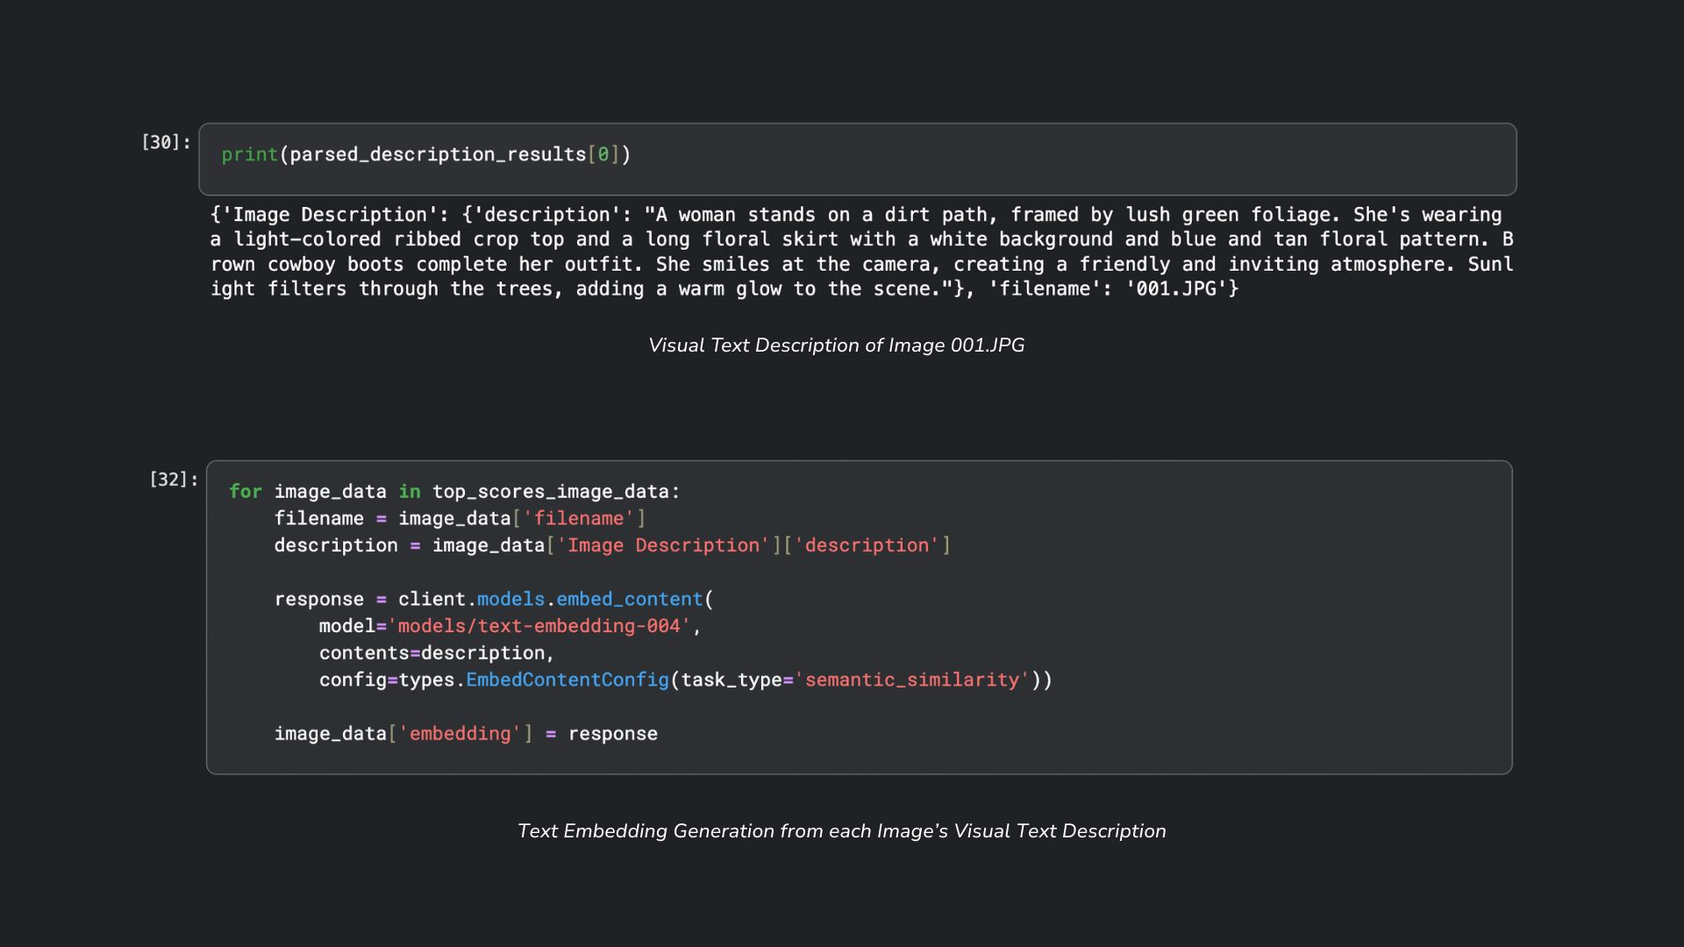
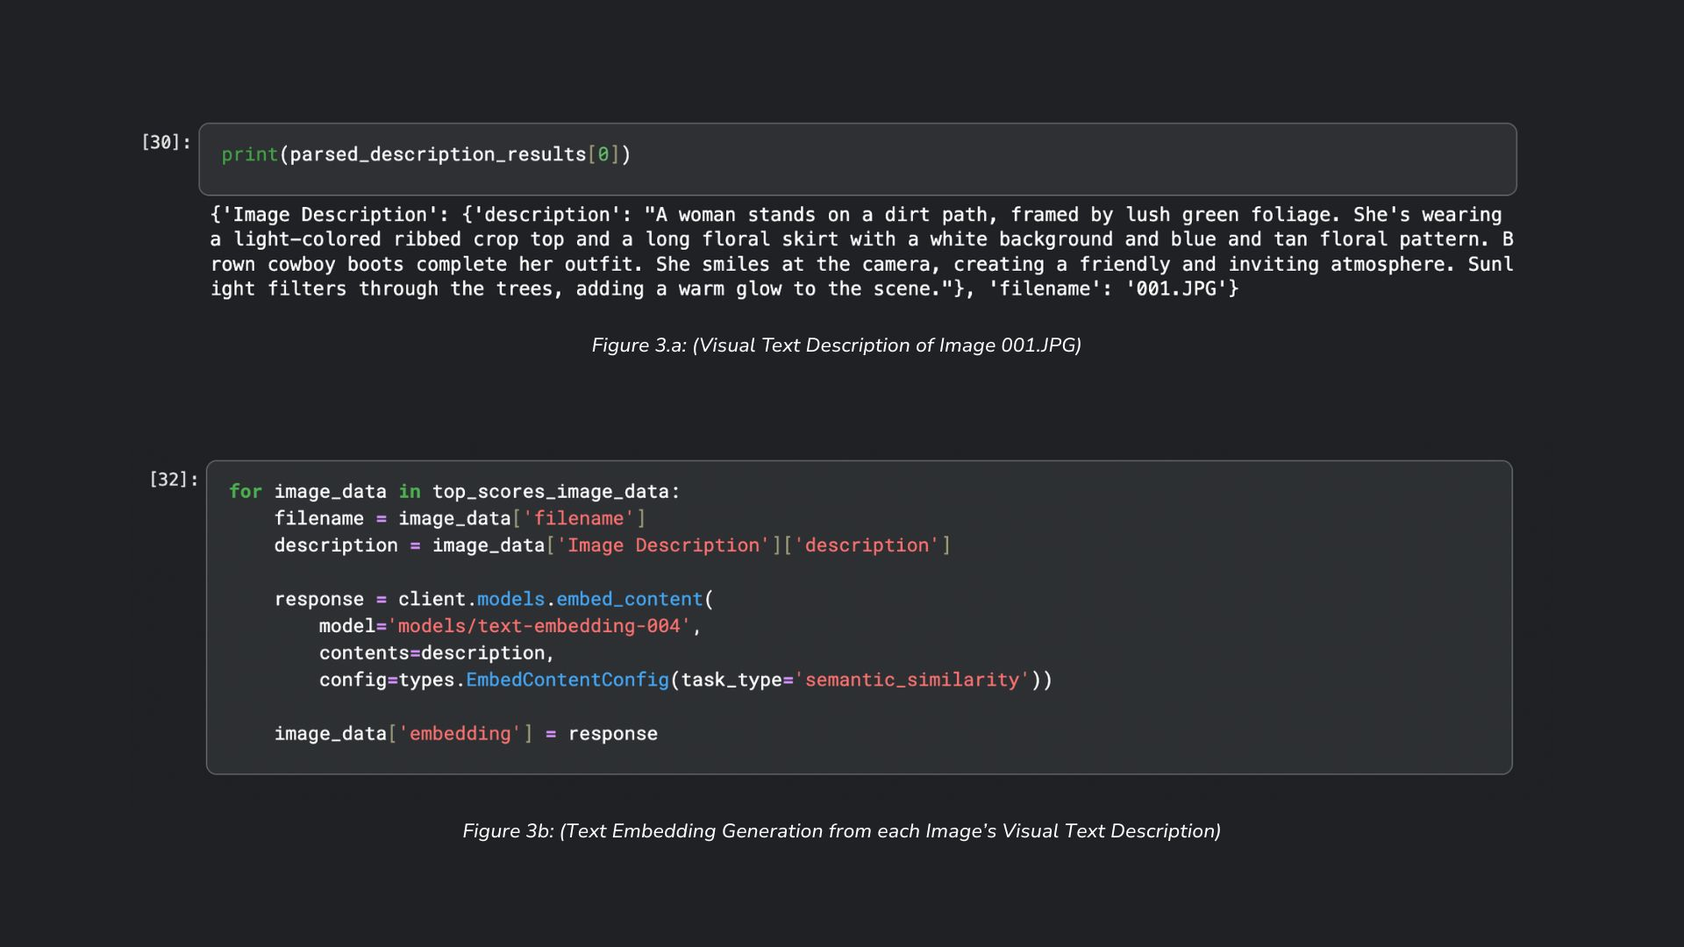
Update Google Capstone Project Page

Changed region(s): [[0.2812, 0.8556, 0.7188, 0.8861], [0.375, 0.3361, 0.625, 0.3972]]

diff --git a/google-gen-ai-capstone.html b/google-gen-ai-capstone.html
@@ -83,118 +83,151 @@
                         <div class="proj-page-card-component" style="margin: 20px 0px">
                             <div class="proj-page-image-component">
                                 <img src="assets/images/Google-Gen-AI-Capstone-Thumbnail.jpg">
-                                <p class="body-text proj-page-caption">Output Results of Gen AI Image Understanding.</p>
+                                <p class="body-text proj-page-caption">Output Results of Generative AI Image Culling Process.</p>
                             </div>
                             <div class="proj-page-text-component">
                                 <div style="margin-bottom: 20px">
                                     <p class="body-text" style="font-style: italic">
-                                        This project aims to automate and streamline the portrait culling process by leveraging Generative AI &mdash;more specifically, Gemini Flash 2.0. I will develop a 
-                                        system within a Kaggle Notebook that takes a collection of untouched portrait photographs as input and outputs a recommended
-                                        selection of the top K images based on predefined quality and uniqueness criteria, mimicking the initial decision-making
-                                        process of a professional portrait photographer.
+                                        This project aims to automate and streamline the Image Culling process of professional portrait photographers by leveraging Generative AI &mdash;more specifically, Gemini Flash 2.0.
+                                        I developed a system within a Kaggle Notebook that takes a collection of untouched portrait photographs as input and outputs a recommended selection of the top K unique (non-redundant) images
+                                        based on predefined quality criteria based on Lighting, Clarity, and the Subject.
                                     </p>
                                 </div>
                                 <div class="d-flex flex-column align-items-left" style="margin-bottom: 20px">
                                     <h5 class="subheading fw-bold" style="margin-bottom: 2px;">Tech Tools</h5>
                                     <div class="d-flex flex-wrap">
                                         <p class="tag-component"><span class="body-text tag-name">Python</span></p>
-                                        <p class="tag-component"><span class="body-text tag-name">Google Gemini Flash 2.0 API</span></p>
+                                        <p class="tag-component"><span class="body-text tag-name">Gemini Flash 2.0</span></p>
+                                        <p class="tag-component"><span class="body-text tag-name">NumPy</span></p>
+                                        <p class="tag-component"><span class="body-text tag-name">Pandas</span></p>
+                                        <p class="tag-component"><span class="body-text tag-name">JSON</span></p>
                                         <p class="tag-component"><span class="body-text tag-name">PIL</span></p>
                                         <p class="tag-component"><span class="body-text tag-name">Markdown</span></p>
+                                        <p class="tag-component"><span class="body-text tag-name">Scikit-learn</span></p>
                                     </div>
                                 </div>
                                 <div class="d-flex flex-column align-items-left" style="margin-bottom: 20px">
                                     <h5 class="subheading fw-bold" style="margin-bottom: 2px;">Prerequisites</h5>
                                     <ol class="body-text">
-                                        <li><a href="https://aistudio.google.com/app/apikey" target="_blank" class="links">Add Gemini API Key as 'GOOGLE_API_KEY' to Kaggle Secrets<a></li>
+                                        <li><a href="https://aistudio.google.com/app/apikey" target="_blank" class="links">Generate Gemini API Key and add as 'GOOGLE_API_KEY' to Kaggle Secrets<a></li>
                                         <li><a href="https://aistudio.google.com/app/apikey" target="_blank" class="links">Add Image Culling Dataset to Kaggle Datasets</a></li>
                                     </ol>
-                                </div>                              
+                                </div>
                                 <div style="margin-bottom: 20px">
-                                    <h5 class="subheading fw-bold">Proposed Solution</h5>
-                                    <p class="body-text">This project aims to automate and streamline the portrait culling process by leveraging Generative AI.
-                                        We will develop a system within a Kaggle Notebook that takes a collection of untouched portrait photographs as input and
-                                        outputs a recommended selection of the top images based on predefined quality and uniqueness criteria, mimicking the
-                                        initial decision-making process of a professional photographer.
+                                    <h5 class="subheading fw-bold">Problem Statement</h5>
+                                    <p class="body-text">Image Culling is the critical process of sifting through numerous raw photographs to select the most
+                                        promising images for post-production editing and refinement, presenting a significant bottleneck in a photographer's workflow.
+                                        During a photoshoot, hundreds and even thousands of images are produced. Going through these image sets demands a substantial investment 
+                                        of a photographer's time and focused energy. This manual process diverts valuable hours away from other important aspects of a photographer's
+                                        business which also includes shooting, editing, client communication, marketing, and much more. Generative AI plays a significant role in being able
+                                        to speed up this process, increase efficiency and productivity, improve accuracy in identifying high-quality images, and enhancing client satisfaction. 
                                     </p>
                                 </div>
                                 <div style="margin-bottom: 20px">
-                                    <h5 class="subheading fw-bold">Project Goals</h5>
-                                    <p class="body-text">The goal is to create a functional proof-of-concept that processes a batch of input images, uses Image
-                                        Understanding with Structured Output to score them based on quality metrics, generates Embeddings to assess similarity, and
-                                        applies a selection logic to identify a target number of high-scoring, visually distinct images. The final output will be a
-                                        list or collection of the selected image identifiers, ready for the photographer's final review and editing.
+                                    <h5 class="subheading fw-bold">Project Roadmap</h5>
+                                    <p class="body-text">This project will be executed through the following stages:
+                                        <ul class="body-text">
+                                            <li>Develop a proof of concept for an Image Culling System that processes a batch of portrait images</li>
+                                            <li>Employ Image Understanding with Structured output to score each image based on Lighting Balance, Clarity/Sharpness,
+                                                Pose Naturalness, Smile Genuineness, and Eye Openness</li>
+                                            <li>Further process the images that pass an overall quality threshold, based on an average score of each quality criteria</li>
+                                            <li>Generate visual text descriptions using Generative AI as input for Gemini's text embedding model (text-embedding-004)</li>
+                                            <li>Create a similarity matrix from the embeddings to greedily select the most unique images from the set of images that meets a quality threshold</li>
+                                        </ul>
+                                    </p>
+                                </div>
+                                <div style="margin-bottom: 20px">
+                                    <h5 class="subheading fw-bold">Multimodal Embeddings Constraint</h5>
+                                    <p class="body-text">I wanted to utilize multimodal embeddings for this project but found that Gemini did not provide a multimodal embedding model. This led me
+                                        to experiment with Google Cloud's Vertex AI's multimodal embedding model, however, I found it would be difficult for Vertex AI's capabilites to be "reasonably accessible to all"
+                                        via the Kaggle Notebook and it would have adverse affects from "mininmal costs". In the future, I would love to further this project using Vertex AI's multimodal embedding model,
+                                        but to ease complexity in this project, I use text embeddings as a proxy for true image embeddings.
+                                    </p>
+                                </div>
+                                <div style="margin-bottom: 20px">
+                                    <h5 class="subheading fw-bold">Expected Output</h5>
+                                    <p class="body-text">
+                                        The image set presented below was curated prior to the development of the Image Culling System and thus represents a manual selection process, unaided by AI.
+                                        These images were chosen based on the same quality metrics integrated into the system: lighting, clarity, poses, smiles, and eye openness. In my assessment,
+                                        these images exhibit the highest quality across these attributes.
                                         <div class="proj-page-image-component">
                                             <img src="assets/images/PRE-SELECTED.jpg">
-                                            <p class="body-text proj-page-caption">Expected Output, Pre-selected without AI Usage</p>
+                                            <p class="body-text proj-page-caption">Image Pre-Selection, unaided by AI.</p>
                                         </div>
-                                    </p>
-                                </div>
-                                <div style="margin-bottom: 20px">
-                                    <h5 class="subheading fw-bold">Project Constraints</h5>
-                                    <p class="body-text">I wanted to utilize multimodal embeddings within this project but found that multimodal embeddings were
-                                        not available through Google Gemini. This led me to experiment with Google Cloud's Vertex AI's multimodal embedding capabilities,
-                                        however, I found it would be difficult for other end users to set up Vertex AI's API in order to test this Kaggle notebook. For
-                                        simplicity, in this project, I will utilize text embeddings instead of image embeddings as a proxy.
                                     </p>
                                 </div>
                                 <div style="margin-bottom: 20px">
                                     <h5 class="subheading fw-bold">Gen AI Capabilities</h5>
-                                    <p class="subheading">This solution will demonstrate the application of key Generative AI capabilities:</p>
+                                    <p class="subheading">The following Generative AI Capabilities can be seen demonstrated throughout the Image Culling System:</p>
                                     <h6 class="subheading fw-bold">Image Understanding</h6>
-                                    <p class="body-text">A multimodal AI model will be employed to analyze the visual content of each photograph. It will assess
-                                        critical quality factors such as lighting composition, sharpness/clarity, subject pose naturalness, and the perceived
-                                        genuineness of expressions (e.g., smiles).</p>
+                                    <p class="body-text">Gemini Flash 2.0's Image Understanding capabilities can be seen repeatedly through the course of this project. First, Image Understanding is used to
+                                        analyze and score each image based on different quality criteria (Lighting Balance, Clarity/Sharpness, Pose Naturalness, Smile Genuineness, and Eye Openeess) as seen in Figure 1.a below.
+                                        Second, Image Understanding is also used to generate visual descriptions for each image that passes the quality threshold (Figure 1.b). These visual descriptions will later be used for embeddings.
+                                    </p>
                                         <div class="proj-page-image-component">
                                             <img src="assets/images/IMAGE-UNDERSTANDING.jpg">
                                         </div>
+                                        <div class="proj-page-image-component">
+                                            <img src="assets/images/IMAGE-UNDERSTANDING-2.jpg">
+                                        </div>
                                     <h6 class="subheading fw-bold">Structured Output (JSON Mode)</h6>
-                                    <p class="body-text">To enable systematic analysis and comparison, the Image Understanding model will be prompted to
-                                        return its evaluation in a consistent, structured format (like JSON). This output will include scores or classifications
-                                        for the different quality criteria for each image.</p>
+                                    <p class="body-text">In both Image Understanding instances, where the system receives a response from the model, Structured Output, specifically JSON, is used
+                                        to enforce a consistent format such that the data collected in the response (i.e. descriptions and scores) can be further processed.</p>
                                         <div class="proj-page-image-component">
                                             <img src="assets/images/STRUCTURED-OUTPUT.jpg">
                                         </div>
                                     <h6 class="subheading fw-bold">Embeddings</h6>
-                                    <p class="body-text">To address the requirement for non-redundancy, image embeddings (numerical vector representations) will
-                                        be generated for each photo. These embeddings capture the visual essence of the images, allowing for quantitative
-                                        measurement of similarity between them.</p>
+                                    <p class="body-text">To address the requirement for uniqueness/non-redundancy, text embeddings (numerical vector representations) are generated for each image.
+                                        As previously mentioned, I wanted this part of my system to use image embeddings via Vertex AI's multimodal embedding model, but insisted on using text embeddings from Gemini's
+                                        text embedding model for ease of accessibility. While there can be limitations in the visual descriptions of each image, the text embeddings embody the essence of each image,
+                                        allowing for quantitative measurement of similarity between them.</p>
                                         <div class="proj-page-image-component">
                                             <img src="assets/images/EMBEDDINGS.jpg">
                                         </div>
                                     <h6 class="subheading fw-bold">Vector Search</h6>
-                                        <p class="body-text">To address the requirement for non-redundancy, image embeddings (numerical vector representations) will
-                                            be generated for each photo. These embeddings capture the visual essence of the images, allowing for quantitative
-                                            measurement of similarity between them.</p>
+                                        <p class="body-text">In Figure 4.a, the cosine similarities are computed for each image, against every other image in the filtered set. A similarity of 1.0 between two images indicates similar images, 
+                                            whereas a similarity score closer to 0.0 indicates less similar images. The similarity scores generated from the embedding vectors (Figure 4.b) are used to identify image similarity in the image selection
+                                            algorithm, which greedily selects the sufficiently different image from a sorted list of the highest overall scored images.
+                                        </p>
                                         <div class="proj-page-image-component">
                                             <img src="assets/images/VECTOR-SEARCH.jpg">
                                         </div>
                                 </div>
                                 <div style="margin-bottom: 20px">
                                     <h5 class="subheading fw-bold">Project Findings</h5>
-                                    <p class="body-text">The system I developed successfully returned the top K selected images based on overall quality and uniqueness.</p>
+                                    <p class="body-text">The developed Image Culling system successfully selected the top K images based on overall quality and a uniqueness constraint. From an initial
+                                        set of 38 untouched photographs, the system identified ten images ranked as highest quality and most dissimilar. Notably, a comparison with a prior, non-AI-aided
+                                        pre-selection revealed a 70% overlap (seven identical images). Among the three images uniquely selected by the AI, one (Figure 5: 034.JPG) was deemed unsuitable
+                                        for inclusion due to the subject being captured mid-blink. Despite this, the initial performance of the Image Culling System is promising. However, its effectiveness
+                                        may be influenced by factors such as a higher proportion of irrelevant images or varying stylistic preferences across different photographers.
+                                    </p>
                                         <div class="proj-page-image-component">
                                             <img src="assets/images/SYSTEM-SELECTION.jpg">
-                                            <p class="body-text proj-page-caption">Output Results of Gemini Flash 2.0 Image Understanding, Ranked by Overall Score.</p>
+                                            <p class="body-text proj-page-caption">Figure 5: (Output Results of Gemini Flash 2.0 Image Understanding, Ranked by Overall Score)</p>
                                         </div>
                                         <div class="proj-page-image-component">
                                             <img src="assets/images/SHARED-SELECTION.jpg">
-                                            <p class="body-text proj-page-caption">Intersect of Selected Images by Human and by Gemini Flash 2.0.</p>
+                                            <p class="body-text proj-page-caption">Figure 6: (Intersect of Selected Images by Human and by Gemini Flash 2.0)</p>
                                         </div>
                                 </div>
                                 <div style="margin-bottom: 20px">
                                     <h5 class="subheading fw-bold">Future Improvements</h5>
-                                    <h6 class="subheading fw-bold">Few Shot Prompting</h6> <!-- Demonstrated in CSV-->
-                                    <p class="body-text">Before prompting the model to analyze the given image dataset, I will provide examples of the expected
-                                        analysis of each image.</p>
+                                    <p class="subheading">Addressing current system limitations and new opportunities for further development:</p>
+                                    <h6 class="subheading fw-bold">Inclusion of Few Shot Prompting</h6> <!-- Demonstrated in CSV-->
+                                    <p class="body-text">To assess Gemini's inherent Image Understanding capabilities, the system was initially evaluated without providing specific examples of high-scoring criteria. The model demonstrated
+                                        reasonable performance despite the ambiguous nature of the scoring requests for attributes like 'Pose Naturalness' and 'Smile Genuineness.' It is anticipated that the system's effectiveness could be
+                                        significantly enhanced by employing few-shot prompting with illustrative examples prior to scoring requests.
+                                    </p>
                                     <h6 class="subheading fw-bold">Immediate Removal of Edge Case Images</h6>
-                                    <p class="body-text">Currently, the system does not remove images where the subject's eyes are closed, where the image is completely or black/white.
-                                        This could improve the system's efficiency and accuracy, removing all unnessary images before they get further processed and scored. 
+                                    <p class="body-text">Currently, the system does not automatically filter images with closed eyes or those that are entirely black and white. While the initial dataset contained few such edge cases, an
+                                        image of the subject mid-blink was present in the selected set. Enhancing the system to immediately remove these unnecessary images would improve its efficiency and accuracy prior to further
+                                        processing and scoring.
                                     </p>
                                     <h6 class="subheading fw-bold">Calculating Quality Score</h6>
-                                    <p class="body-text">Currently, each criteria for image quality (Lighting Balance, Clarity/Sharpness, Pose Naturalness, and Smile Genuineness)
-                                        are being weighted equally, when calculating quality scores. Determining proper weights of each criteria could lead to an improved output, as
-                                        certain criteria could be more important than others, i.e. Clarity/Sharpness being more important than Lighting Balance.</p>
+                                    <p class="body-text">At the moment, the system assigns equal weight to each image quality criterion (Lighting Balance, Clarity/Sharpness, Pose Naturalness, Smile Genuineness, and Eye Openness) when calculating
+                                        overall quality scores. Adjusting these weights to reflect the relative importance of each criterion, such as prioritizing Clarity/Sharpness over Lighting Balance, could lead to a more refined and
+                                        accurate output.
+                                    </p>
                                 </div>
                                 <p class="body-text proj-page-caption">Last Updated: April 20th, 2025.</p>
                             </div>
